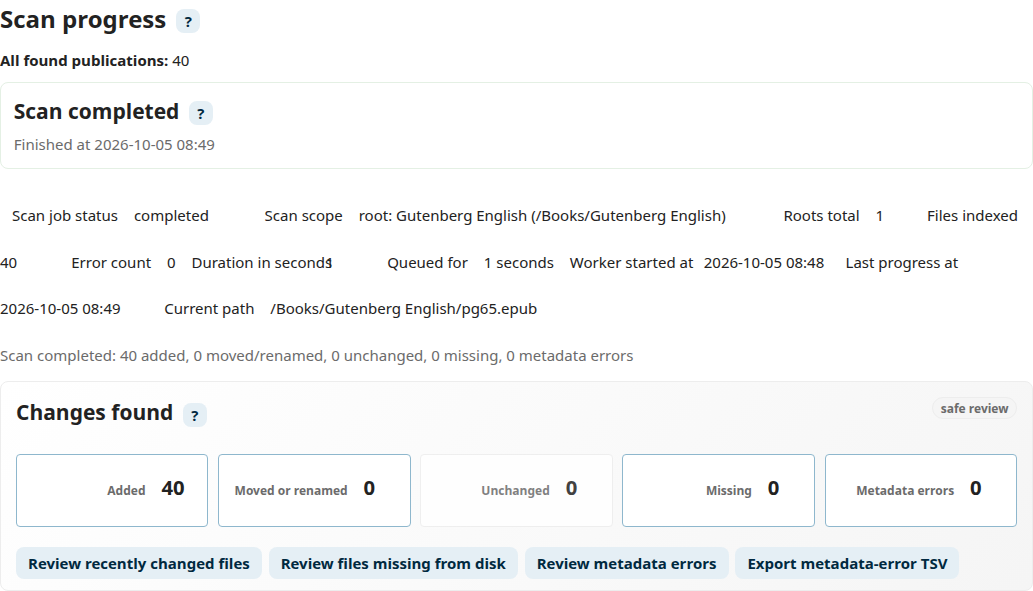
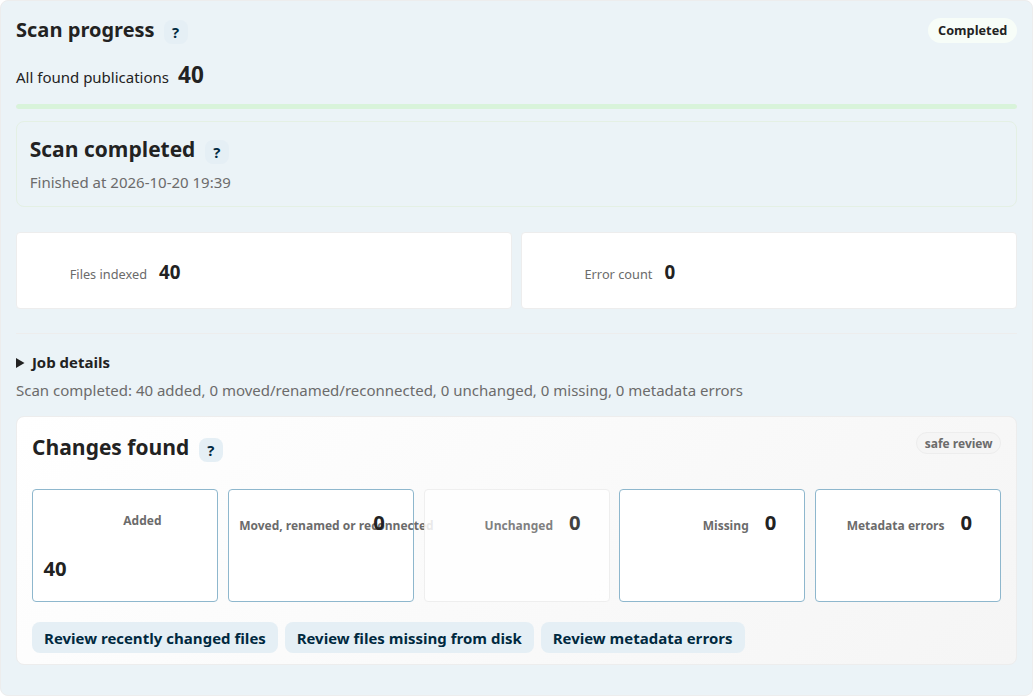
Refresh public README and screenshots for alpha.34

diff --git a/README.md b/README.md
@@ -1,59 +1,67 @@
 # Library
 
-Signed **0.3.0-alpha.34** is deployed on developer NC34. All eight final UX findings are addressed: readable errors, stable profile searches and Back navigation, consistent filter keyboards, clear mobile headers, shared view controls, terminology, language cleanup and page framing. Required CI passed, including **77 browser journeys**. Integrity is clean and the catalogue remains **large catalogue books**. No database migration. See the [alpha.34 verification and deployment record](docs/compatibility-evidence/2026-10-20-nc34-final-ux-alpha34/README.md) and human acceptance **H03-26**.
+Browse, organise and improve the books, comics, magazines and papers you already keep in Nextcloud Files.
 
-Alpha.29 fixes selective content-search performance and surname searches in the **Author** filter. See the [search verification record](docs/compatibility-evidence/2026-10-20-nc34-search-alpha29/README.md). The alpha.29 search verification is historical and remains covered by alpha.30 regression checks; that search change required no migration.
+Library is an open-source Nextcloud app ([AGPL-3.0-or-later](LICENSE)) with a searchable cover gallery, author/series/genre browsing, private reading lists and tools for reviewing messy metadata. Nextcloud Files remains the canonical storage: a file-ID-based index connects your existing files to the catalogue.
 
-Library is an open-source Nextcloud app for people who keep books, comics, papers and sidecar metadata in Nextcloud Files.
+![Library catalogue with English Project Gutenberg books](docs/images/appstore-catalogue.png)
 
-Nextcloud Files remains the canonical storage. Library indexes those files with a file-ID-based index and adds a catalogue on top: covers, search, filters, shelves, saved collections, detail editing, review queues and handoff to the normal Nextcloud file viewers.
-
-![Library compact catalogue showing cover cards, filters and saved collections](docs/images/catalogue-compact.png)
-
-License: AGPL-3.0-or-later. See [LICENSE](LICENSE).
-
-Current candidate: `0.3.0-alpha.34`. Destination-author selection searches automatically after three letters and offers creation when no author matches. All book links and old bookmarks open one editor, with compact Authors → Series → Genres rows and a single Save/Discard workflow. Metadata status, imported suggestions and file information are collapsed at the bottom. The [alpha.34 final UX record](docs/compatibility-evidence/2026-10-20-nc34-final-ux-alpha34/README.md) tracks candidate checks and deployment status. Supported Nextcloud versions: **33–35**. The exact signed NC33–35 matrix and owner acceptance remain release gates. See [release status](RELEASE.md).
-
-The current development build adds per-user author and series identities, author profiles, reviewed moves and merges, changed-import review and conditional Undo. Earlier 0.2 work includes private reading lists, path/filename metadata extraction, duplicate review, scheduled scans and bounded cover thumbnails.
-
-Verification: alpha.9 has focused source-build checks on Nextcloud 33.0.9 / 34.0.4 / 35.0.0 and a populated developer NC34 upgrade. The last signed, exact-package matrix belongs to the preserved `0.2.0-beta.3` baseline; an exact 0.3 release archive still needs that matrix. See the [release checklist](docs/app-store-readiness.md), [alpha.9 evidence](docs/compatibility-evidence/2026-10-14-series-assignments-alpha9/README.md) and [active roadmap](docs/roadmap.md).
+Current candidate: `0.3.0-alpha.34`. **Pre-release:** 0.3 is the planned first App Store release. The declared compatibility range is **Nextcloud 33–35**; final exact-package compatibility checks and human acceptance remain release gates. Earlier signed candidates have their own verification records. See [release status](RELEASE.md), the [current verification record](docs/compatibility-evidence/2026-10-20-nc34-final-ux-alpha34/README.md) and the [release checklist](docs/app-store-readiness.md).
 
 ## What it does
 
-- scan folders already visible in Nextcloud Files;
-- browse a cover-first catalogue and cover gallery in compact, gallery, shelf or list view;
-- search and filter titles, creators, series, descriptions, identifiers, file names and folders;
-- filter by type, format, year, creator, publisher, subject, classification, tag, scan state, workflow state and review flags;
-- use typeahead for large lists such as creators, publishers, series, subjects and folders;
+- scan folders already visible in Nextcloud Files; browse covers or a list with shelves and saved filter collections;
+- search and filter titles, linked author names, series, descriptions, identifiers, file names and folders;
+- filter by type, format, year, author, publisher, subject, classification, tag, scan state, workflow state and review flags;
+- use typeahead for authors, publishers, series, genres, languages, subjects and other catalogue facets;
 - maintain private reading lists with ordered books and notes;
-- browse and edit author profiles and series identities; review selected-book moves, whole-identity merges and changed imported relationships;
+- browse authors, series and genres with sorting and linked book previews; edit author profiles and review reassignment, merges and imported relationship changes;
 - infer metadata from paths and filenames with preview, per-book review, Apply and Undo;
-- schedule scans and review optional potential-duplicate suggestions;
-- save the current filter setup as a collection and reopen it from the navigation;
-- open the file in the normal Nextcloud viewer, show it in Files or Download it;
-- edit catalogue metadata, workflow status, stars, descriptions and file comments;
+- schedule scans, review optional potential-duplicate suggestions and reopen saved filter collections;
+- open books in a new tab through the installed Nextcloud viewer, show them in Files or use **Download**;
+- edit book details with a single Save/Discard workflow, preserve corrected fields during scans, and manage favorites, ratings, reading status and file comments;
 - review weak metadata, scanner conflicts, missing files and metadata extraction errors;
-- export corrected metadata and preview imports before applying them.
+- export corrected metadata and preview imports before applying them;
+- delete a book file after confirmation, retaining shared OPF metadata and other companion files and removing its immediate parent only when safely empty and unprotected.
 
 The app has safe user-facing diagnostics for scan and metadata problems. Server logs keep the technical detail.
+
+## A look inside
+
+**Book details:** title, metadata, cover actions and linked authors in one editor. Changes to book metadata remain a draft until saved.
+
+![Current Book details editor for a Gutenberg publication](docs/images/appstore-details.png)
+
+**Authors:** browse names and their books, sort the directory and open a profile or book directly.
+
+![Author directory with linked Gutenberg book previews](docs/images/appstore-authors.png)
+
+**Extract metadata:** preview suggestions from file and folder names before applying selected fields.
+
+![Filename metadata extraction with a selected-record preview](docs/images/appstore-inference.png)
+
+Screenshots show the actual alpha.34 interface on an isolated Nextcloud 34 instance, using the [English Gutenberg examples](docs/gutenberg-example-books.md) and a synthetic filename-extraction example. [Capture details and reproduction](docs/images/first-library/README.md).
+
+## Your first library
+
+1. Upload a few EPUB, PDF or CBZ files to a folder in Nextcloud Files.
+2. Open **Library → Settings → Folders and scanning**, choose **Add a shelf**, select the folder and click **Save shelf**.
+3. Click **Scan this shelf** and wait for the background scan to finish.
+4. Open **All publications**. Click a cover/title for Book details or **Quick view** for the sidebar; **Open** hands the file to your installed viewer.
+
+Follow [Your first library](docs/first-library.md) for a screenshot walkthrough. EPUB/comic reading depends on the viewer apps installed on your server; downloading the source remains available.
 
 ## Current scope
 
 Library keeps source files in place. Scans and edits write to Library-owned tables and metadata records. Metadata import has a preview step before anything is applied.
 
-Outside the current 0.3 scope:
+The explicit **Delete book** action removes the selected source file through Nextcloud; normal scanning and metadata editing do not rewrite it. Corrected-metadata export is a **partial export**, not a backup of lists, author profiles or all relationships. Use the [backup and recovery guide](docs/recovery.md) to preserve the complete Library state.
 
-- a built-in EPUB, PDF or comic reader;
-- reading-position sync or annotations;
-- OCR or full-text document search;
-- internet metadata lookup;
-- OPDS, Kobo or Kindle sync;
-- AI classification;
-- shared or admin-managed library roots.
+Outside 0.3: a built-in reader, reading-position sync or annotations, OCR/full-text document search, internet metadata lookup, OPDS/device sync, AI classification and shared/admin-managed roots.
 
 ## Install
 
-Install a packaged archive as a Nextcloud administrator:
+As a Nextcloud administrator:
 
 ```bash
 tar -xzf library-<version>.tar.gz -C /var/www/html/custom_apps
@@ -61,9 +69,7 @@ chown -R www-data:www-data /var/www/html/custom_apps/library
 sudo -u www-data php /var/www/html/occ app:enable library
 ```
 
-The archive must contain one top-level `library/` directory. Paths and the web-server user vary by installation. Container setups can run the same commands through `docker exec`.
-
-After enabling the app, open **Library settings**, add a folder that already exists in Nextcloud Files, then run **Scan this root**.
+The archive must contain one top-level `library/` directory. Adjust paths and the web-server user for your installation; containers can use `docker exec`. Nextcloud background jobs must run for queued scans; Cron is recommended for scheduled scans.
 
 ## Try it
 
@@ -76,16 +82,13 @@ scripts/package-release.sh
 
 Install `dist/library-<version>.tar.gz` with the archive commands above. Verify a packaged candidate with its adjacent `.sha256` artifact; detailed release evidence stays in the excluded `RELEASE.md`.
 
-Useful checks:
+Checks: `npm run check` and `npm run smoke:release-package`. For GUI workflows, install the pinned browsers with `npx playwright install chromium firefox`, then run `npm run test:gui` against a configured disposable instance. [Browser setup and coverage](docs/playwright-journeys.md).
 
-```bash
-npm run check
-npm run smoke:release-package
-```
+`bin/nextcloud-background-worker.sh` runs the general Nextcloud background worker for a bounded development pass.
 
-`bin/nextcloud-background-worker.sh` runs the general Nextcloud background worker for a bounded development pass when scan jobs need queue processing.
+## What's next
 
-For GUI workflows, install the pinned browsers once with `npx playwright install chromium firefox`, then run `npm run test:gui`. Set `PW_BASE_URL`, `PW_USER`, `PW_PASSWORD` and fixture variables when using a disposable instance.
+The [Active roadmap](docs/roadmap.md) keeps 0.3 focused on release readiness. Planned later themes are **0.4 Enrich and discover**, **0.5 Read and remember**, and **0.6 Explore your knowledge**, including optional metadata providers, deeper Nextcloud/reader integration and grounded content discovery. These are future plans, not features of this candidate.
 
 ## More documentation
 

diff --git a/docs/images/first-library/README.md b/docs/images/first-library/README.md
@@ -1,28 +1,53 @@
-# First library screenshots
+# Public screenshots — alpha.34
 
-Captured on 2026-10-05 using the signed Library 0.2.0-beta.1 archive on an isolated Nextcloud 34.0.4 instance, Chromium, English UI, light theme and a 1440 × 1000 viewport. Settings screenshots crop the relevant section; catalogue and details screenshots show the viewport. No DOM styling or image retouching was applied.
+Captured on 2026-10-20 using the existing signed Library **0.3.0-alpha.34** archive on an isolated **Nextcloud 34.0.4** instance, Chromium, English UI, light theme and a **1440 × 1000** viewport. Settings images crop the relevant section; browsing images show the viewport. No image retouching was applied. The extraction capture uses a scroll offset to keep the preview below the Nextcloud header.
 
-The source is the existing 40-book English Gutenberg EPUB fixture, copied into `/Books/Gutenberg English` for the disposable account. Book IDs and metadata titles are listed in [Gutenberg example books](../../gutenberg-example-books.md). The recorded first scan added all 40 books with zero metadata errors. The daily schedule is demonstration data in this disposable instance.
+The source is the 40-book English Gutenberg EPUB fixture, copied into `/Books/Gutenberg English` for a disposable account. Book IDs and metadata titles are listed in [Gutenberg example books](../../gutenberg-example-books.md). The first scan added all 40 books with zero metadata errors. The daily schedule is demonstration data. The extraction screenshot additionally uses a synthetic EPUB named `Pride and Prejudice - Jane Austen (1813).epub`; it is a filename tutorial, not a complete copy of that book. The final disposable catalogue therefore contains 41 records.
+
+## Image inventory
+
+| Image | Screen |
+|---|---|
+| [01-add-folder.png](01-add-folder.png) | Add a shelf with its folder and label filled |
+| [02-saved-folder.png](02-saved-folder.png) | Saved shelf before its first scan |
+| [03-scan-complete.png](03-scan-complete.png) | Completed scan: 40 indexed, zero errors |
+| [04-browse.png](04-browse.png) | All publications in Covers view |
+| [05-book-details.png](05-book-details.png) | Quick view sidebar |
+| [06-automatic-scans.png](06-automatic-scans.png) | Daily scan schedule |
+| [appstore-catalogue.png](../appstore-catalogue.png) | Catalogue overview |
+| [appstore-details.png](../appstore-details.png) | Full Book details editor |
+| [appstore-authors.png](../appstore-authors.png) | Author directory and linked book previews |
+| [appstore-inference.png](../appstore-inference.png) | Filename extraction and selected-record preview |
+
+All ten images were visually reviewed. Missing-cover placeholders reflect the fixture. The settings captures also expose narrow Add a shelf fields and an overlapping long Changes found label; these are recorded in the [maintenance audit](../../testing-maintenance-audit-2026-10-20.md#readme-and-screenshot-follow-up) for human follow-up.
 
 ## Recreate the screenshots
 
-From the repository root, provide the existing signed archive and the Gutenberg fixture. Start without `LIBRARY_BOOK_FIXTURE_ARCHIVE`: the normal helper would otherwise pre-index books, skipping the first-use journey.
+From the repository root, provide the signed archive and a local copy of the Gutenberg fixture. Start without `LIBRARY_BOOK_FIXTURE_ARCHIVE`: the helper would otherwise pre-index books, skipping the first-use journey. The example fixture path below is local and is not a bundled download.
 
 ```bash
 export NC_VERSION=34.0.4
-export LIBRARY_LISTS_PREFIX=library-first-steps
-export LIBRARY_LISTS_WORK_DIR=/tmp/library-first-steps
-export LIBRARY_TEST_ARCHIVE="$PWD/dist/library-0.2.0-beta.1.tar.gz"
+export LIBRARY_LISTS_PREFIX=library-public-capture
+export LIBRARY_LISTS_WORK_DIR=/tmp/library-public-capture
+export LIBRARY_TEST_ARCHIVE="$PWD/dist/library-0.3.0-alpha.34.tar.gz"
+GUTENBERG_ARCHIVE=/tmp/library-beta2/gutenberg-en-40.tar.gz
 unset LIBRARY_BOOK_FIXTURE_ARCHIVE LIBRARY_BETA_ARCHIVE
 bash scripts/dev-lists-instance.sh start
 source "$LIBRARY_LISTS_WORK_DIR/$NC_VERSION.env"
-docker cp /tmp/library-beta-matrix/gutenberg-en-40.tar.gz "$LIBRARY_LISTS_CONTAINER:/tmp/books.tar.gz"
+docker cp "$GUTENBERG_ARCHIVE" "$LIBRARY_LISTS_CONTAINER:/tmp/books.tar.gz"
 docker exec "$LIBRARY_LISTS_CONTAINER" sh -c 'mkdir -p "/var/www/html/data/library-smoke/files/Books/Gutenberg English" && tar -xzf /tmp/books.tar.gz -C "/var/www/html/data/library-smoke/files/Books/Gutenberg English" && chown -R www-data:www-data /var/www/html/data/library-smoke/files/Books'
 docker exec -u www-data "$LIBRARY_LISTS_CONTAINER" php occ files:scan --path=library-smoke/files/Books
 node scripts/capture-first-library.mjs
+
+# Complete the newly indexed fixture's author and series links before capture.
+for job_class in AuthorBackfillJob SeriesBackfillJob; do
+    job_id="$(docker exec -u www-data "$LIBRARY_LISTS_CONTAINER" php occ background-job:list --output=json | python3 -c 'import json,sys; jobs=[j for j in json.load(sys.stdin) if j["class"].endswith(sys.argv[1])]; assert len(jobs)==1, jobs; print(jobs[0]["id"])' "$job_class")"
+    docker exec -u www-data "$LIBRARY_LISTS_CONTAINER" php occ background-job:execute "$job_id" --force-execute
+done
+SCREENSHOT_DIR=docs/images node scripts/capture-app-store.mjs
 bash scripts/dev-lists-instance.sh stop
 ```
 
-The capture script requires the disposable-instance ownership label and no existing Library roots. It saves the first root through the UI, queues its scan, invokes the disposable worker, captures the completed result, saves a daily schedule and captures the catalogue/sidebar. It does not download the books or run the compatibility test suite. If capture fails, stop the disposable instance after inspecting the error; use a fresh instance for another first-scan capture.
+Both scripts require the disposable-instance ownership label. The first script requires no existing Library roots, saves the shelf through the UI, queues its scan, invokes the worker, captures the completed result and saves a daily schedule. The second starts with the 40-book catalogue and creates its synthetic extraction fixture after capturing browsing screens. Use a fresh instance when repeating the complete sequence; these are first-use capture tools, not idempotent maintenance commands. If capture fails, stop the disposable instance after inspecting the error.
 
-All six images were visually reviewed. The isolated instance was removed after capture. Existing release archives and developer-instance data were not changed.
[1 lines of base64/hex data omitted]

diff --git a/docs/testing-maintenance-audit-2026-10-20.md b/docs/testing-maintenance-audit-2026-10-20.md
@@ -8,7 +8,7 @@ Scope: the alpha.34 human handbook, its directly linked navigation guidance, all
 - Moved the old A16x/LIB-HARDEN walkthroughs into the [v0.1 archive](human-test-handbook-v0.1-archive.md); retained historical evidence rather than presenting it as current acceptance work.
 - Corrected cover/title → Book details, Quick view → sidebar, author selection instead of creator-text editing, Choose series, single Save/Discard, current imported-change actions, and the Author fragment-search versus Enter-selection distinction.
 - Removed the impossible instruction to open the retired editor by disabling JavaScript. Native POST compatibility is tested through explicit requests separately.
-- Updated the directly related user-guide and first-library labels. Existing first-library images are explicitly marked as older illustrations; this audit did not recapture public Gutenberg screenshots.
+- Updated the directly related user-guide and first-library labels. The initial audit marked first-library images as older illustrations; the requested screenshot follow-up below replaces them with alpha.34 captures.
 - Changed documentation contracts so they protect the current version, case inventory and workflow instead of requiring obsolete interface phrases in the current handbook.
 
 ## Browser test corrections
@@ -24,7 +24,7 @@ Scope: the alpha.34 human handbook, its directly linked navigation guidance, all
 | OPF series smoke tested raw source-field editing | Test canonical series/part editing with Save book details, rescan survival and unchanged imported series evidence/source file markers. |
 | Native-conflict smoke scraped a removed form | Build the legacy-client payload explicitly from the current revision/CSRF context; retain stale-409 and reviewed-resubmit checks. Remove temporary authentication afterward. |
 | Deletion's no-save counter watched obsolete URLs | Watch the actual `/items/{id}` POST as well as legacy update routes, excluding the deletion endpoint. |
-| Screenshot tools clicked a cover expecting a sidebar | Use Quick view; update Save shelf/Scan this shelf labels. Syntax checked; public capture not rerun. |
+| Screenshot tools clicked a cover expecting a sidebar | Use Quick view; update Save shelf/Scan this shelf labels. The initial pass was syntax-only; both public capture scripts subsequently passed in the screenshot follow-up below. |
 
 ## Remaining historical diagnostics
 
@@ -32,7 +32,7 @@ Four utilities still require migration before they can be used against the curre
 
 The [coverage page](playwright-journeys.md#older-standalone-diagnostics) identifies current replacements and gaps. In particular, the old combined inference/author scenario, omitted-field legacy API checks and rejected-field reset browser scenario are not newly certified by this run. Retiring an unusable replay does not establish replacement coverage.
 
-The signed NC33–35 fresh/upgrade matrix, additional standalone inference diagnostics, public screenshot refresh and manual screen-reader acceptance remain separate work. The main suite's pass count must not be presented as completion of those gates.
+The signed NC33–35 fresh/upgrade matrix, additional standalone inference diagnostics and manual screen-reader acceptance remain separate work. The main suite's pass count must not be presented as completion of those gates.
 
 ## Verification
 
@@ -70,3 +70,11 @@ The source-tree aggregate remained `9303a6f07320fa15823b5790eefdeb8e720fcc420242
 ### Merge follow-up
 
 PR #129's first hosted run stopped at the dependency audit before executing tests: `follow-redirects` 1.16.0 was flagged by GHSA-q3jh-wrc6-jgq8 and GHSA-8r9p-f939-6h3c. The lockfile was updated only for that transitive package to patched 1.16.1; the production audit then reported zero vulnerabilities. Hosted checks must pass on the updated commit before merging. The Node dependency tree is not shipped in the Nextcloud app archive; the installed alpha.34 package remains unchanged.
+
+### README and screenshot follow-up
+
+Refreshed the public README, first-library walkthrough and App Store listing draft against the existing signed alpha.34 package. Captured six first-library images and four showcase images (catalogue, full Book details, Authors and extraction preview) on a labelled disposable Nextcloud 34.0.4 instance using the 40 English Gutenberg EPUBs plus one synthetic extraction example. Both capture scripts completed successfully. The automatic-scans capture now opens its disclosure; full details uses the cover link; author previews wait only for visible lazy-loaded images. An initial author-image wait incorrectly required below-fold images to load and timed out; correcting that wait allowed the full capture to complete.
+
+All ten images were visually inspected. The settings screenshots retain two observed presentation issues for human follow-up: the Add a shelf inputs truncate their example values despite spare row space, and the Changes found tile's long moved/renamed label overlaps its count at this width. The captures are not retouched to conceal either issue. Catalogue placeholders are intentional where the fixture has no cover. This is screenshot verification, not a new compatibility certification.
+
+Capture commands and provenance are in [the image record](images/first-library/README.md). Local logs: `/tmp/library-public-capture-first.log` and `/tmp/library-public-capture-store.log`. The developer instance and existing books were not modified. The App Store's historical screenshot URLs still need the final published release tag before submission.

diff --git a/docs/app-store-listing.md b/docs/app-store-listing.md
@@ -1,8 +1,8 @@
 # App Store listing draft
 
-Status: preserved 0.2 beta listing draft; refresh screenshots and copy against the signed 0.3 candidate before submission.
+Status: copy and screenshots refreshed against signed 0.3.0-alpha.34 on 2026-10-20; final candidate review remains required before submission.
 Target app version: 0.3, subject to exact archive verification.
-Compatibility target: Nextcloud 33–35. Focused alpha.9 source checks are available; the signed 0.3 package matrix remains pending.
+Compatibility target: Nextcloud 33–35. Current NC34 verification is recorded for alpha.34; the final exact-package NC33–35 matrix remains a release gate.
 
 ## Short description
 
@@ -12,7 +12,7 @@ Publication catalogue for EPUB, PDF and CBZ files stored in Nextcloud Files.
 
 Library is a Nextcloud app for people who keep books, comics, magazines, papers or other digital publications in ordinary Nextcloud folders and want a catalogue view on top of those files.
 
-It indexes selected folders, keeps the original files in Nextcloud Files, extracts and stores useful publication metadata, and presents the collection as a searchable cover-first catalogue. Users can browse by title, creator, publication or year, edit catalogue metadata, review weak or conflicting scanner results, save custom views, and hand files off to the existing Nextcloud viewer or download action.
+It indexes selected folders, keeps the original files in Nextcloud Files, extracts and stores useful publication metadata, and presents the collection as a searchable cover-first catalogue. Users can browse by title, author, series, genre, publication or year, edit catalogue metadata, review weak or conflicting scanner results, save custom views, and hand files off to the existing Nextcloud viewer or download action.
 
 Library does not replace Nextcloud Files. It adds publication-oriented browsing and cleanup workflows while preserving file ownership and storage in Nextcloud.
 
@@ -22,7 +22,7 @@ Included in the 0.3 development build:
 
 - user-configured library roots;
 - private reading lists with ordering and notes;
-- account-private author and series identities, author profiles, reviewed book moves and merges, changed-import review and conditional Undo;
+- account-private author, series and genre identities, author profiles, reviewed book moves and merges, changed-import review and conditional Undo;
 - filename/path metadata suggestions, saved rules, preview, per-book approval and Apply/Undo;
 - optional duplicate suggestions and explicit review decisions;
 - scheduled incremental scans with periodic full reconciliation;
@@ -32,7 +32,8 @@ Included in the 0.3 development build:
 - one-save book editing for publication fields, linked authors, series, genres, rating, dates, subjects, classifications and descriptions; separate workflow status, favorites and comments;
 - review flows for weak metadata, scanner conflicts, missing files and metadata extraction errors;
 - corrected-metadata export and import preview/apply;
-- safe handoff to existing Nextcloud viewers, Show in Files and Download source actions.
+- safe handoff to existing Nextcloud viewers, Show in Files and Download source actions;
+- confirmed book deletion through Nextcloud, with shared OPF retention and protected-root checks.
 
 Outside the planned 0.3 scope:
 
@@ -62,15 +63,18 @@ Bug reports are most useful when they include the app version, Nextcloud version
 
 Prepared screenshots for owner review:
 
-Captured on disposable Nextcloud 34.0.4 using the public Gutenberg fixture and a synthetic metadata tutorial file. All are below 2 MiB, and contain no real-library filenames or credentials:
+Captured from signed Library 0.3.0-alpha.34 on disposable Nextcloud 34.0.4 using the public Gutenberg fixture and a synthetic metadata tutorial file. All are below 2 MiB, and contain no real-library filenames or credentials:
 
 1. [Catalogue](images/appstore-catalogue.png)
 2. [Publication details](images/appstore-details.png)
-3. [Metadata extraction and live preview](images/appstore-inference.png)
+3. [Authors and linked book previews](images/appstore-authors.png)
+4. [Metadata extraction and live preview](images/appstore-inference.png)
+
+[Capture provenance and reproduction](images/first-library/README.md).
 
 Before uploading, verify that no real filenames, private folder names, user names, server names or credentials are visible.
 
-The three release-tag URLs are included in `appinfo/info.xml`; they become public when the accepted source tag is pushed. Review the visible wording and presentation before publication.
+The three screenshot URLs in `appinfo/info.xml` still target the historical `v0.2.0-beta.3` tag. Before submission, update them to the accepted published 0.3 source tag and include the author screenshot. The refreshed repository images alone do not update those pinned App Store URLs. Review the visible wording and presentation against that final tag.
 
 ## Release note draft
 

diff --git a/docs/first-library.md b/docs/first-library.md
@@ -1,6 +1,6 @@
 # Your first library
 
-Turn a folder of English Project Gutenberg books into a catalogue you can search, browse and open. The instructions use the current **0.3** controls. The screenshots are older **0.2** illustrations from Nextcloud **34**, using 40 EPUB files; follow the labels in the text when they differ. You can follow the steps with just a few books.
+Turn a folder of English Project Gutenberg books into a catalogue you can search, browse and open. The instructions and screenshots use **0.3.0-alpha.34** on Nextcloud **34.0.4**, with 40 EPUB files. You can follow the steps with just a few books.
 
 ## Before you start
 
